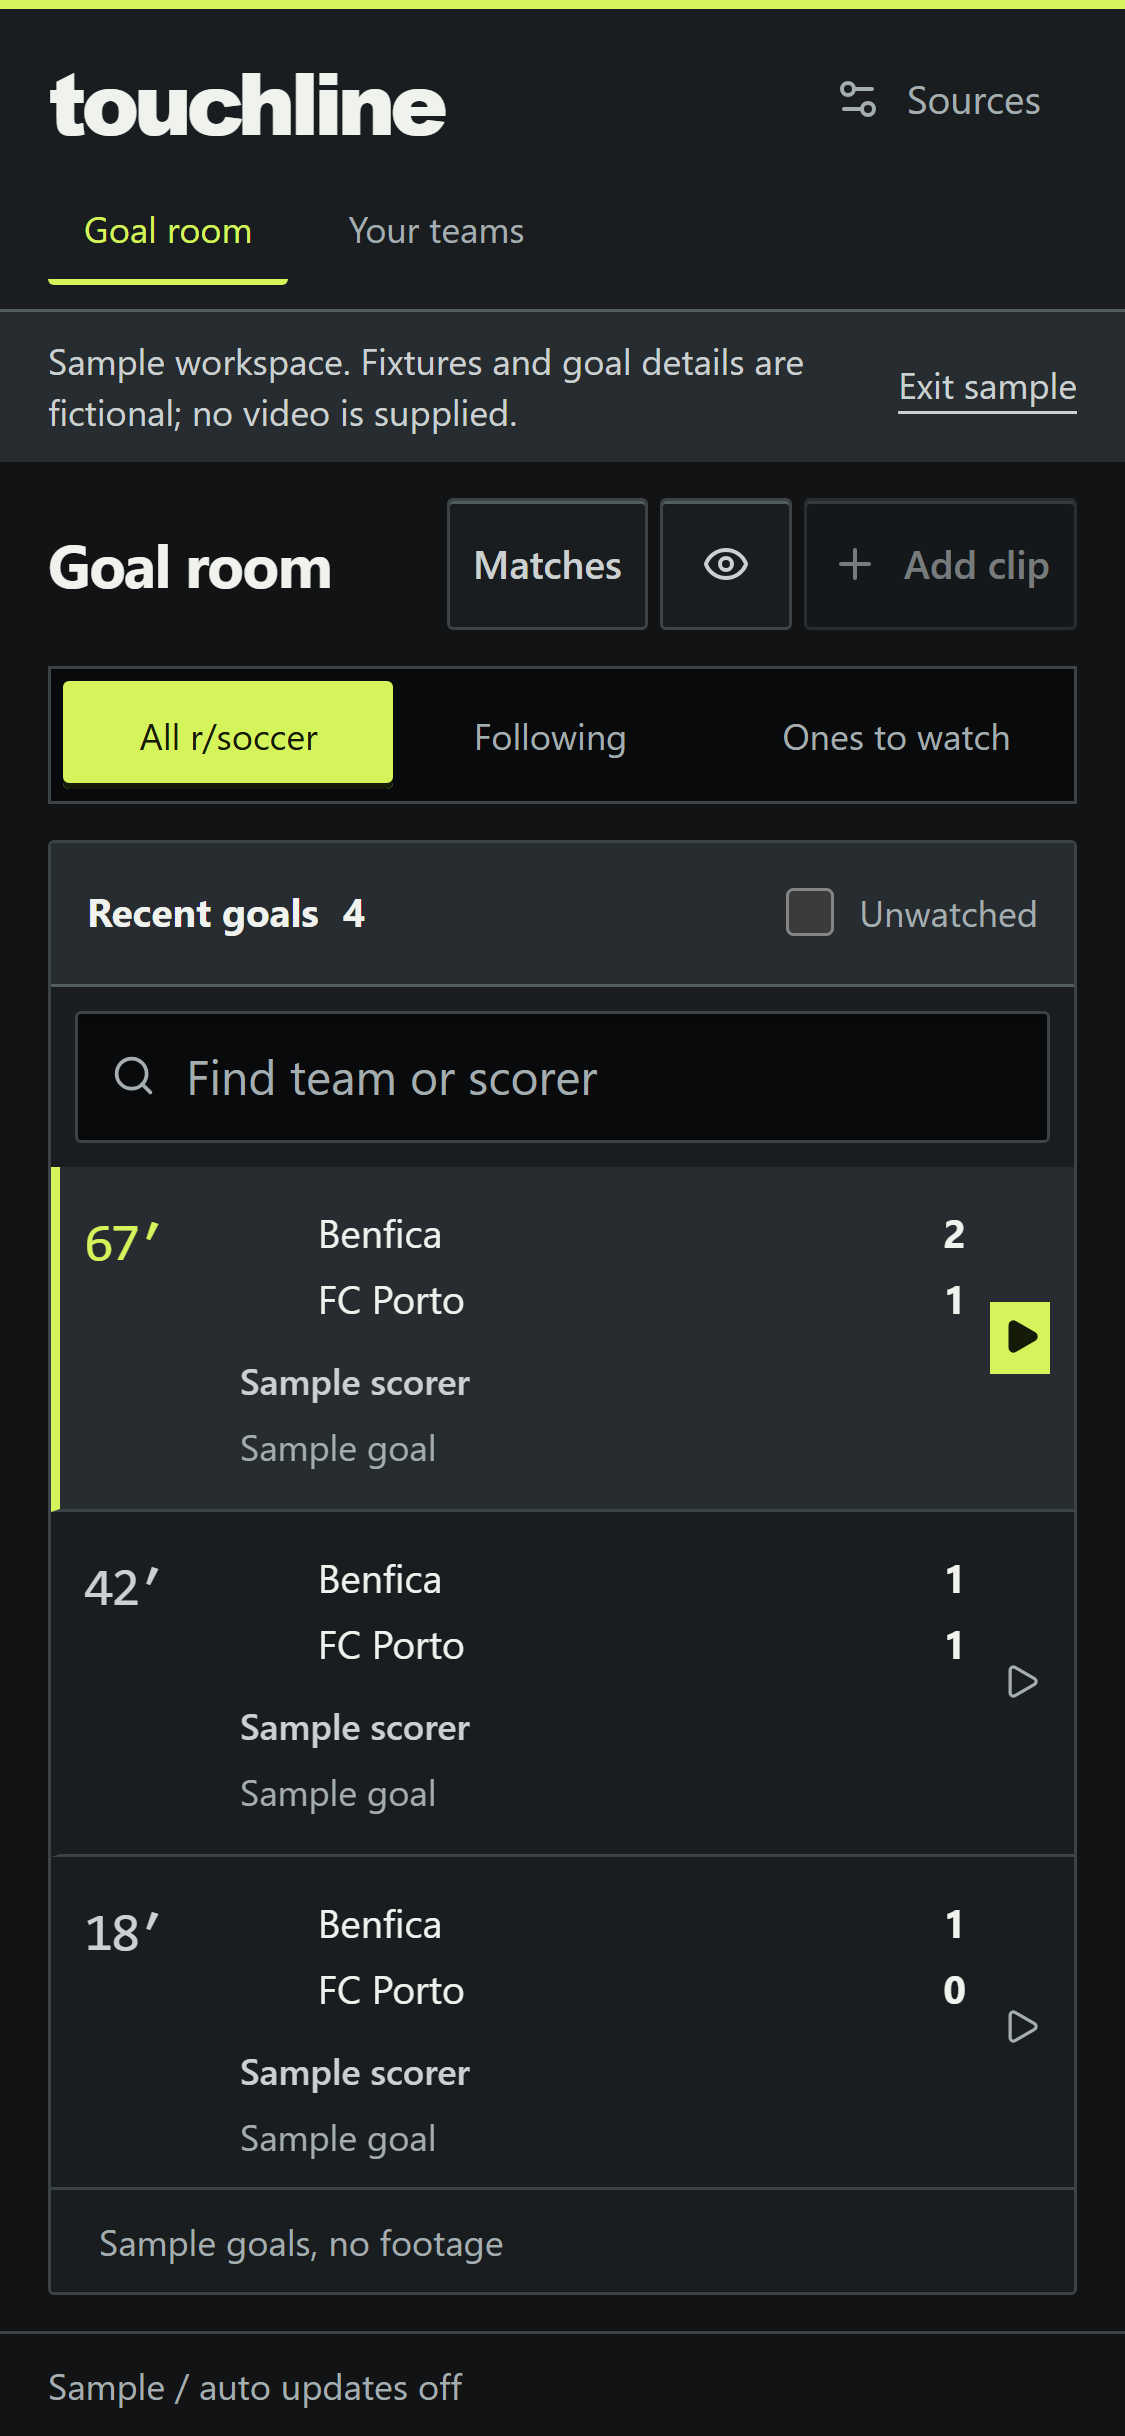
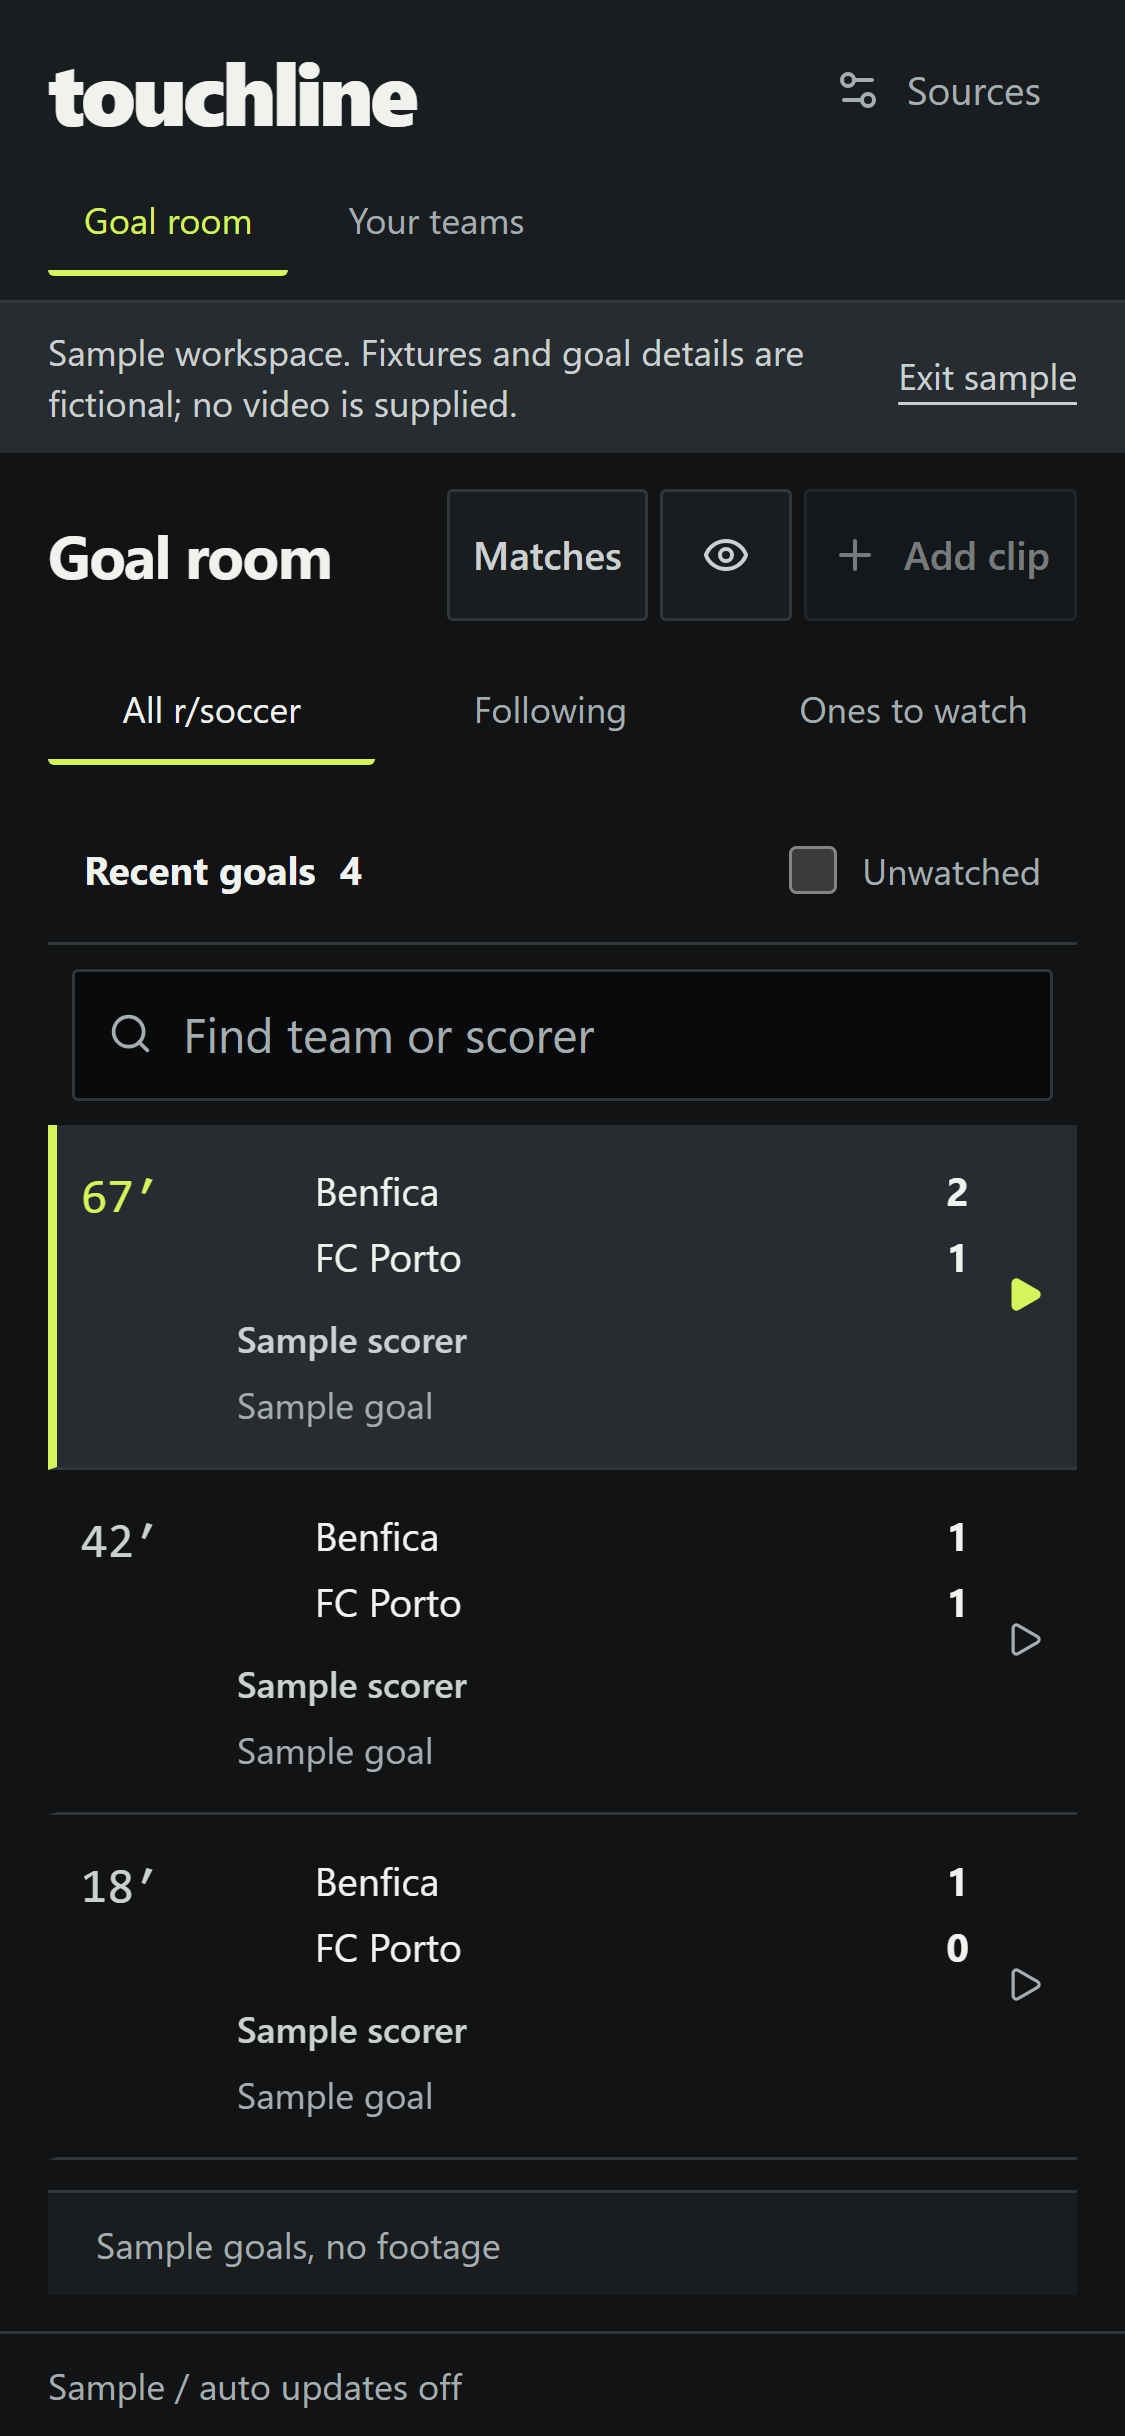
Simplify Touchline surfaces and tighten viewing hierarchy

diff --git a/web/src/style.css b/web/src/style.css
@@ -2117,15 +2117,15 @@ summary:focus-visible {
   }
 }
 
-/* Graphite desk: recessed media, raised controls, one phosphor selection key. */
+/* Broadcast desk: straight edges, shared baselines, one selection signal. */
 .topbar {
   background: var(--color-paper-2);
-  border-top: 3px solid var(--color-accent);
-  border-bottom-color: var(--color-surface-edge);
+  border-top: 0;
+  border-bottom-color: var(--color-rule);
 }
 .topbar .brand {
-  font: 900 30px/1 var(--font-display);
-  letter-spacing: -1.8px;
+  font: 800 28px/1 var(--font-body);
+  letter-spacing: -1.2px;
 }
 .topbar nav button {
   border-radius: 0;
@@ -2154,7 +2154,7 @@ summary:focus-visible {
 .quiet {
   background: var(--color-paper-2);
   border-color: var(--color-rule);
-  box-shadow: inset 0 1px 0 var(--color-surface-edge);
+  box-shadow: none;
 }
 .quiet:hover {
   border-color: var(--color-muted);
@@ -2179,19 +2179,21 @@ summary:focus-visible {
   padding-bottom: 0;
 }
 .feed-tabs {
-  gap: 1px;
-  padding: var(--space-2xs);
-  border: 1px solid var(--color-rule);
-  background: var(--color-inset);
+  gap: var(--space-xs);
+  padding: 0;
+  border: 0;
+  background: var(--color-clear);
 }
 .feed-tabs > button {
   border: 0;
-  min-height: 36px;
+  border-bottom: 2px solid var(--color-clear);
+  min-height: 40px;
 }
 .feed-tabs > button[aria-pressed="true"] {
-  background: var(--color-accent);
-  color: var(--color-accent-ink);
-  box-shadow: inset 0 -2px 0 var(--color-accent-ink);
+  background: var(--color-clear);
+  color: var(--color-ink);
+  border-bottom-color: var(--color-accent);
+  box-shadow: none;
 }
 .club-filters {
   padding-left: var(--space-xs);
@@ -2201,14 +2203,14 @@ summary:focus-visible {
 }
 .goal-queue,
 .match-rail {
-  border: 1px solid var(--color-rule);
-  background: var(--color-paper-2);
-  border-radius: 2px;
+  border: 0;
+  background: var(--color-paper);
+  border-radius: 0;
 }
 .section-bar {
-  background: var(--color-paper-3);
+  background: var(--color-paper);
   color: var(--color-ink);
-  border-bottom-color: var(--color-surface-edge);
+  border-bottom-color: var(--color-rule);
 }
 .goal-queue .section-bar {
   padding-left: var(--space-sm);
@@ -2224,7 +2226,7 @@ summary:focus-visible {
 }
 .goal-search input {
   background: var(--color-inset);
-  box-shadow: inset 0 1px 2px var(--color-inset);
+  box-shadow: none;
   border-color: var(--color-rule);
 }
 .goal-row {
@@ -2235,9 +2237,9 @@ summary:focus-visible {
   background: var(--color-paper-3);
 }
 .goal-minute {
-  font: 500 18px/1.3 var(--font-mono);
+  font: 500 16px/1.3 var(--font-mono);
   width: 44px;
-  letter-spacing: -1px;
+  letter-spacing: 0;
 }
 .goal-team {
   color: var(--color-ink);
@@ -2249,8 +2251,8 @@ summary:focus-visible {
   width: 20px;
 }
 .goal-row.selected .queue-play {
-  background: var(--color-accent);
-  color: var(--color-accent-ink);
+  background: var(--color-clear);
+  color: var(--color-accent);
   height: 24px;
 }
 .queue-footer,
@@ -2259,24 +2261,25 @@ summary:focus-visible {
   color: var(--color-muted);
 }
 .player-header {
-  min-height: 72px;
-  padding: var(--space-xs);
-  border: 1px solid var(--color-surface-edge);
-  background: var(--color-paper-3);
-  box-shadow: inset 0 1px 0 var(--color-surface-edge);
+  min-height: 48px;
+  padding: 0 0 var(--space-xs);
+  border: 0;
+  border-bottom: 1px solid var(--color-rule);
+  background: var(--color-paper);
+  box-shadow: none;
 }
 .player-header > .match-scoreboard:first-child {
   gap: var(--space-sm);
 }
 .scoreboard-result {
-  min-width: 92px;
-  min-height: 48px;
+  min-width: 80px;
+  min-height: 40px;
   justify-content: center;
   padding: var(--space-xs);
-  background: var(--color-inset);
-  border: 1px solid var(--color-rule);
+  background: var(--color-clear);
+  border: 0;
   color: var(--color-ink);
-  font: 650 30px/1 var(--font-mono);
+  font: 600 28px/1 var(--font-mono);
 }
 .scoreboard-team {
   font-weight: 600;
@@ -2287,9 +2290,9 @@ summary:focus-visible {
   flex-basis: 26px;
 }
 .video-stage {
-  border: 1px solid var(--color-rule);
+  border: 0;
   border-radius: 0;
-  box-shadow: 0 0 0 3px var(--color-inset);
+  box-shadow: none;
 }
 .playback-tools {
   background: var(--color-paper-2);
@@ -2299,13 +2302,13 @@ summary:focus-visible {
   border-top: 1px solid var(--color-rule);
 }
 .clip-details h2 {
-  font: 750 clamp(24px, 2.3vw, 36px)/1.06 var(--font-body);
-  letter-spacing: -1px;
+  font: 650 clamp(23px, 2vw, 30px)/1.15 var(--font-body);
+  letter-spacing: -0.6px;
 }
 .clip-navigation {
   gap: 0;
-  border: 1px solid var(--color-rule);
-  background: var(--color-paper-2);
+  border: 0;
+  background: var(--color-clear);
 }
 .clip-navigation > span {
   min-width: 58px;
@@ -2318,20 +2321,20 @@ summary:focus-visible {
   border-radius: 0;
 }
 .clip-navigation .icon-button:first-child {
-  border-right: 1px solid var(--color-rule);
+  border-right: 0;
 }
 .clip-navigation .icon-button:last-child {
-  border-left: 1px solid var(--color-rule);
+  border-left: 0;
 }
 .match-rail .section-bar {
-  background: var(--color-paper-3);
+  background: var(--color-paper);
   color: var(--color-ink);
 }
 .match-group-heading {
   background: var(--color-paper);
 }
 .fixture {
-  background: var(--color-paper-2);
+  background: var(--color-paper);
 }
 .fixture.selected {
   box-shadow: inset 3px 0 0 var(--color-accent);
@@ -2356,8 +2359,8 @@ summary:focus-visible {
     padding-inline: var(--space-2xs);
   }
   .player-header {
-    min-height: 64px;
-    padding: var(--space-xs);
+    min-height: 56px;
+    padding: 0 0 var(--space-xs);
   }
   .scoreboard-result {
     min-width: 76px;
@@ -2376,6 +2379,6 @@ summary:focus-visible {
     gap: var(--space-2xs);
   }
   .clip-details h2 {
-    font-size: 28px;
+    font-size: 26px;
   }
 }

diff --git a/web/src/tokens.css b/web/src/tokens.css
@@ -7,7 +7,7 @@
   --color-ink: #f0f2ee;
   --color-ink-2: #cbd0d0;
   --color-muted: #a4adaf;
-  --color-rule: #3b4347;
+  --color-rule: #30373b;
   --color-accent: #d5f35b;
   --color-accent-ink: #151b08;
   --color-focus: #e1ff80;
